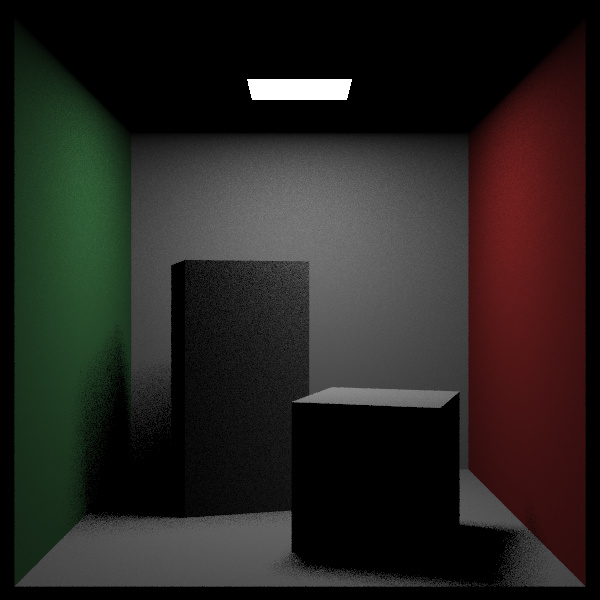
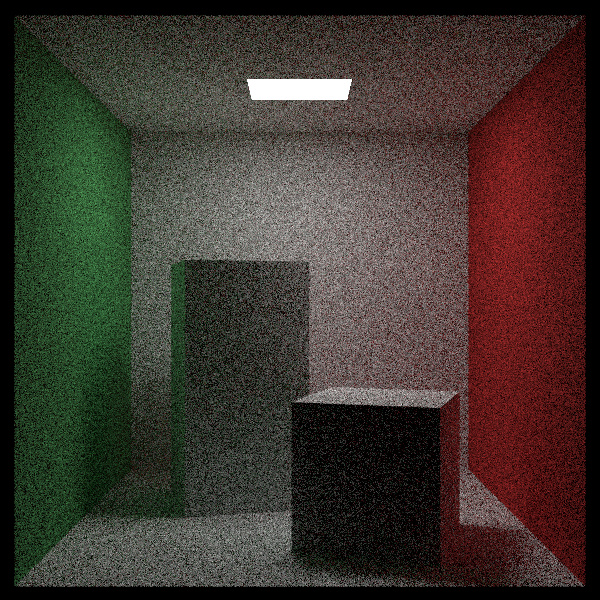
correct with unidirectional xz_rectangle

diff --git a/src/main.cpp b/src/main.cpp
@@ -37,19 +37,21 @@ color_rgb ray_color(ray const &r_in, color_rgb const &background,
   // if the material scatters light this ray gets scatter and emit
   if (!rec.mat_ptr->scatter(r_in, rec, attenuation, scattered, sample_pdf))
     return emit_color;
-  auto on_light = point3d(random_double(213, 343), 554, random_double(227, 332));
-  auto to_light = on_light - rec.p;
-  auto distance_squared = to_light.norm2();
-  to_light = unit_vector(to_light);
 
-  if (dot(to_light, rec.normal) < 0) return emit_color;
+  // auto on_light = point3d(random_double(213, 343), 554, random_double(227, 332));
+  // auto to_light = on_light - rec.p;
+  // auto distance_squared = to_light.norm2();
+  // to_light = unit_vector(to_light);
 
-  double light_area = (343 - 213) * (332 - 227);
-  auto light_cosine = fabs(to_light.y());
-  if (light_cosine < 0.000001) return emit_color;
+  // if (dot(to_light, rec.normal) < 0) return emit_color;
 
-  sample_pdf = distance_squared / (light_cosine * light_area);
-  scattered = ray(rec.p, to_light, r_in.time());
+  // double light_area = (343 - 213) * (332 - 227);
+  // auto light_cosine = fabs(to_light.y());
+  // if (light_cosine < 0.000001) return emit_color;
+
+  // sample_pdf = distance_squared / (light_cosine * light_area);
+  // scattered = ray(rec.p, to_light, r_in.time());
+
   // clang-format off
   return emit_color
          + attenuation * rec.mat_ptr->scatter_pdf(r_in, rec, scattered)
@@ -123,7 +125,7 @@ int main(int argc, char *argv[]) {
       world = cornell_box();
       aspect_ratio = 1.0;
       image_w = 600;
-      spp = 10;
+      spp = 200;
       max_bounce = 50;
       background_color = color_rgb(0, 0, 0);
 

diff --git a/src/object/box.h b/src/object/box.h
@@ -32,9 +32,9 @@ box::box(point3d const& p0, point3d const& p1,
                                        box_max_.y(), box_max_.z(), mat_ptr));
 
   faces_.add(make_shared<xz_rectangle>(box_min_.x(), box_max_.x(), box_min_.z(),
-                                       box_max_.z(), box_min_.y(), mat_ptr));
+                                       box_max_.z(), box_min_.y(), mat_ptr, vec3d{0, -1, 0}));
   faces_.add(make_shared<xz_rectangle>(box_min_.x(), box_max_.x(), box_min_.z(),
-                                       box_max_.z(), box_max_.y(), mat_ptr));
+                                       box_max_.z(), box_max_.y(), mat_ptr, vec3d{0, 1, 0}));
 
   faces_.add(make_shared<yz_rectangle>(box_min_.y(), box_max_.y(), box_min_.z(),
                                        box_max_.z(), box_min_.x(), mat_ptr));

diff --git a/src/object/prefabs.h b/src/object/prefabs.h
@@ -114,7 +114,7 @@ object_list cornell_box() {
   // objects.add(make_shared<flip_face>(make_shared<xz_rectangle>(213, 343, 227, 332, 554, light)));
   objects.add(make_shared<xz_rectangle>(213, 343, 227, 332, 554, light, vec3d{0, -1, 0}));
   objects.add(make_shared<xz_rectangle>(0, 555, 0, 555, 0, white));
-  objects.add(make_shared<xz_rectangle>(0, 555, 0, 555, 555, white));
+  objects.add(make_shared<xz_rectangle>(0, 555, 0, 555, 555, white, vec3d{0, -1, 0}));
   objects.add(make_shared<xy_rectangle>(0, 555, 0, 555, 555, white));
 
   shared_ptr<base_object> box1 =
